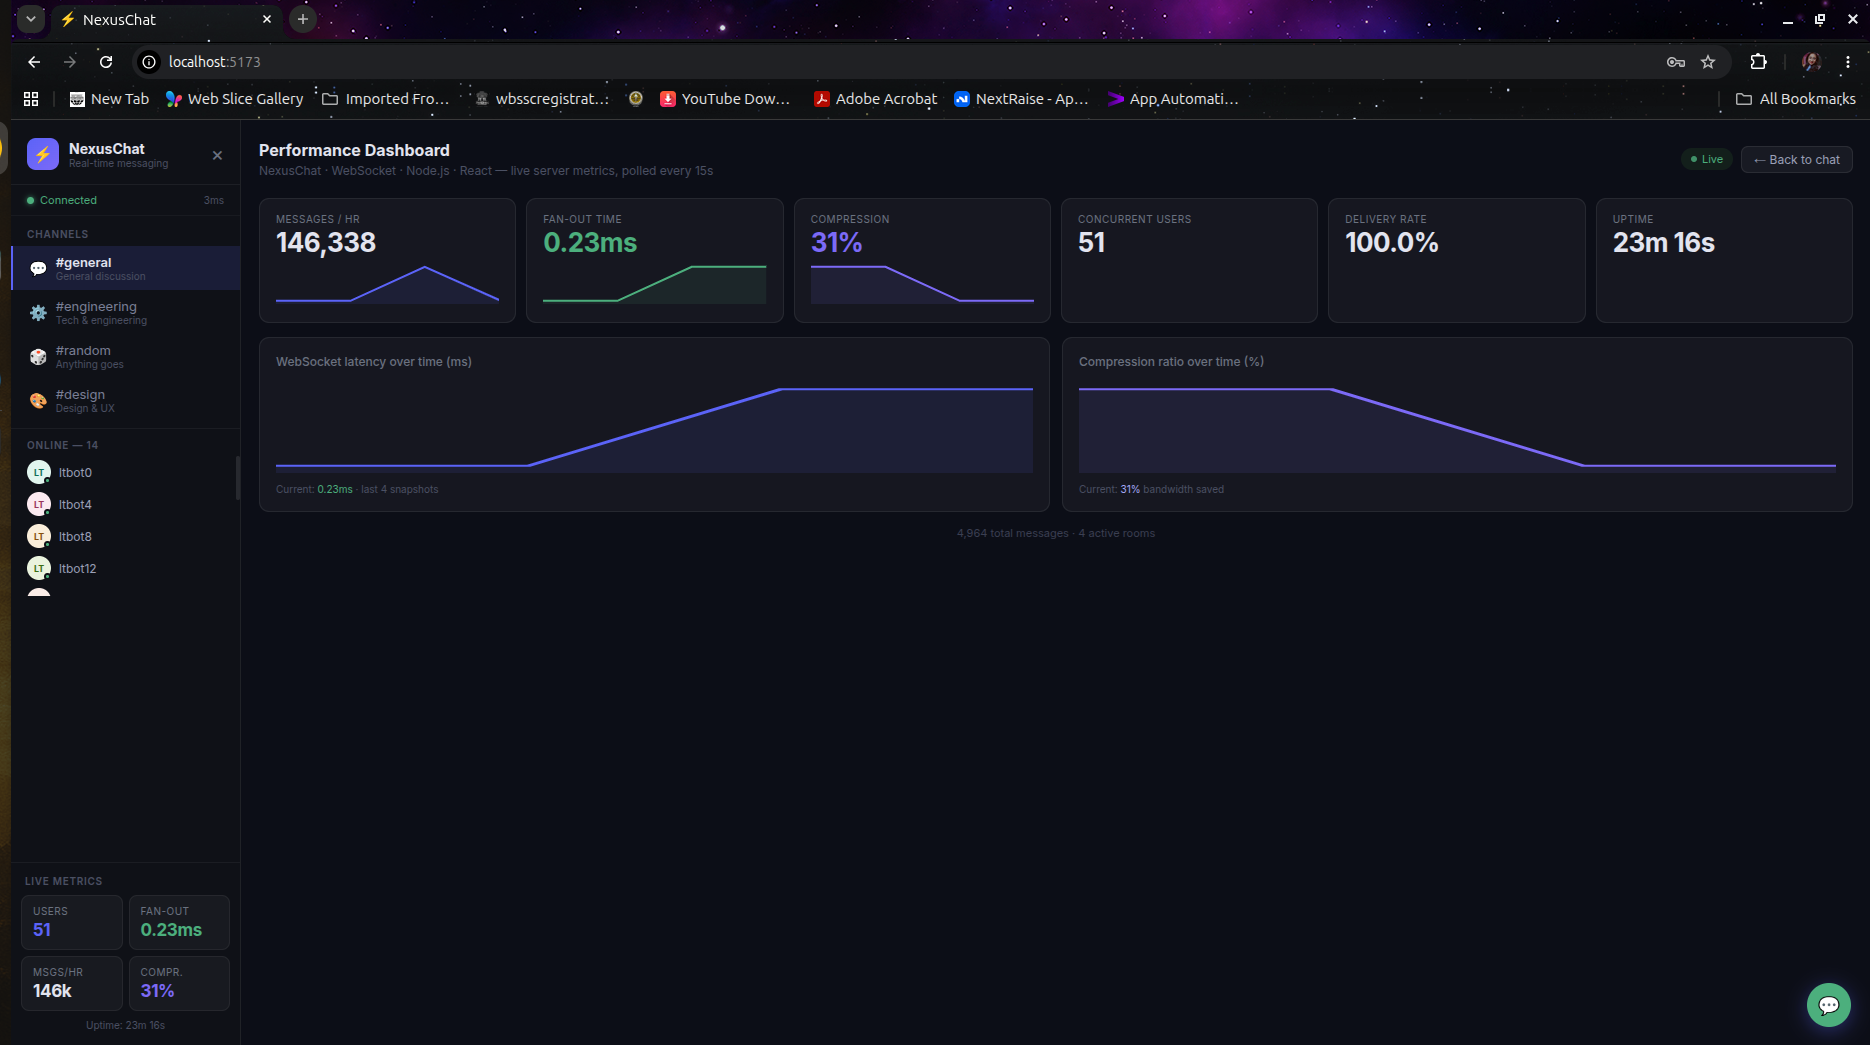
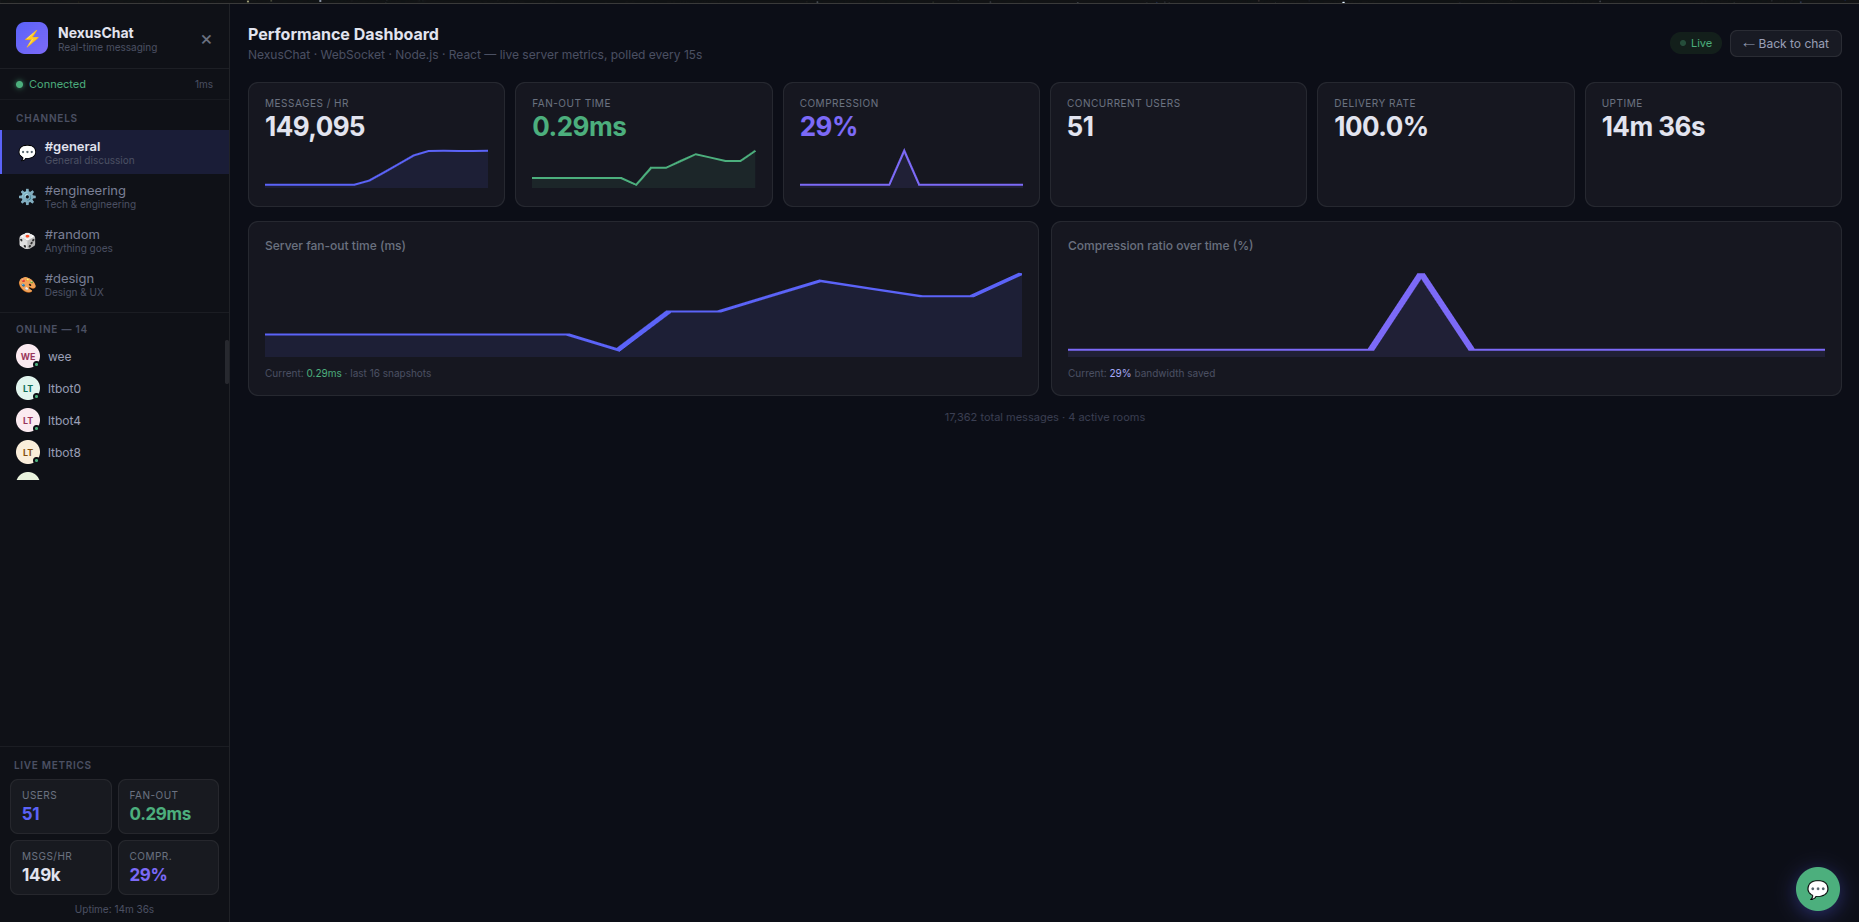
docs: refresh dashboard screenshot; relabel latency chart as fan-out time

diff --git a/client/src/components/MetricsDashboard.tsx b/client/src/components/MetricsDashboard.tsx
@@ -133,7 +133,7 @@ export function MetricsDashboard({ metrics, onBack }: MetricsDashboardProps) {
 
       {/* Charts */}
       <div style={{ display: "grid", gridTemplateColumns: "repeat(auto-fit,minmax(260px,1fr))", gap: 12, marginBottom: 14 }}>
-        <ChartCard title="WebSocket latency over time (ms)">
+        <ChartCard title="Server fan-out time (ms)">
           {latHist.length >= 2 ? (
             <>
               <Spark data={latHist} color="#5b63f8" height={90} />
